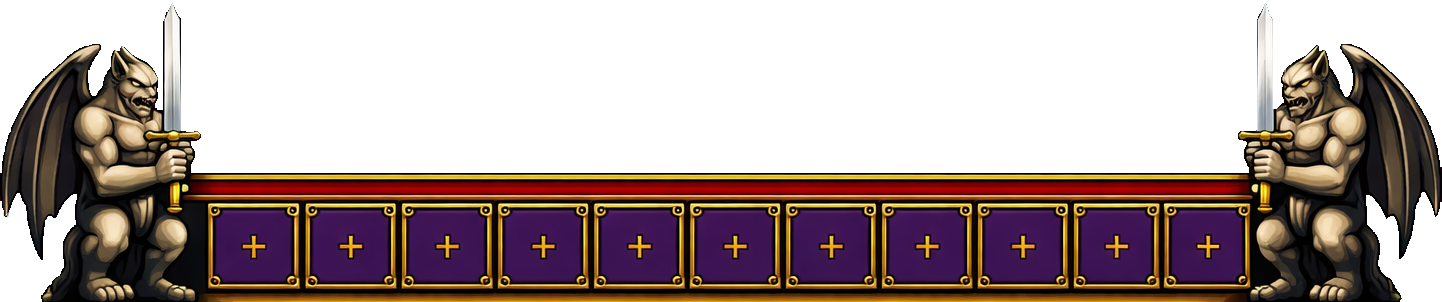
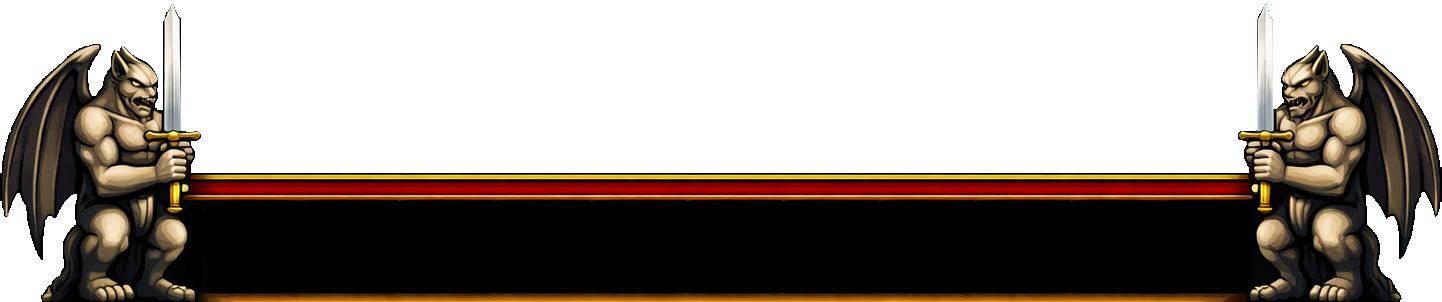
Moved weapon armor panel

Changed region(s): [[0.1248, 0.6556, 0.8738, 0.9834]]

diff --git a/client/src/scenes/game/mod.rs b/client/src/scenes/game/mod.rs
@@ -56,8 +56,8 @@ use crate::{
         hud::skill_bar::SkillBar,
         hud::skill_picker_popup::SkillPickerPopup,
         hud::skills_panel::SkillsPanel,
-        hud::status_panel::StatusPanel,
         hud::talent_panel::TalentPanel,
+        hud::weapon_armor_panel::WeaponArmorPanel,
         style::Padding,
         visuals::rank_progress_line::RankProgressLine,
         visuals::rank_sigil::RankSigil,
@@ -197,10 +197,10 @@ const RANK_SIGIL_Y: i32 = 4;
 
 // ---- Status panel (WV/AV, right of skill bar) ---- //
 
-/// X position of the status panel (8 px to the right of the skill bar's right edge).
-const STATUS_PANEL_X: i32 = TARGET_WIDTH_INT as i32 - 280;
-/// Y position of the status panel (same row as the rank progress line).
-const STATUS_PANEL_Y: i32 = TARGET_HEIGHT_INT as i32 - 37;
+/// X position of the weapon/armor panel (8 px to the right of the skill bar's right edge).
+const WEAPON_ARMOR_PANEL_X: i32 = TARGET_WIDTH_INT as i32 - 368;
+/// Y position of the weapon/armor panel (same row as the rank progress line).
+const WEAPON_ARMOR_PANEL_Y: i32 = TARGET_HEIGHT_INT as i32 - 33;
 
 /// X position of the vitality chevrons (horizontal centre of the player sprite).
 const VITALITY_BARS_X: i32 = TARGET_WIDTH_INT as i32 / 2;
@@ -217,7 +217,7 @@ const VITALITY_BARS_Y: i32 = TARGET_HEIGHT_INT as i32 - 42;
 /// scroll positions, pending stat raises, minimap pixel buffer, and escape
 /// menu state. Created fresh each time the player enters the game world.
 pub struct GameScene {
-    pub(super) status_panel: StatusPanel,
+    pub(super) weapon_armor_panel: WeaponArmorPanel,
     pub(super) rank_sigil: RankSigil,
     pub(super) chat_box: ChatBox,
     pub(super) hud_buttons: HudButtonBar,
@@ -334,7 +334,11 @@ impl GameScene {
         keyboard.set_position(keyboard.bounds().x, keyboard_y);
 
         Self {
-            status_panel: StatusPanel::new(STATUS_PANEL_X, STATUS_PANEL_Y, HUD_PANEL_BG),
+            weapon_armor_panel: WeaponArmorPanel::new(
+                WEAPON_ARMOR_PANEL_X,
+                WEAPON_ARMOR_PANEL_Y,
+                HUD_PANEL_BG,
+            ),
             rank_sigil: RankSigil::new(RANK_SIGIL_X, RANK_SIGIL_Y, HUD_PANEL_BG),
             chat_box: ChatBox::new(
                 Bounds::new(CHATBOX_X, CHATBOX_Y, CHATBOX_W, CHATBOX_H),
@@ -715,7 +719,7 @@ impl GameScene {
         if self.spell_effect_icons.contains_point(mx, my) {
             return true;
         }
-        if self.status_panel.bounds().contains_point(mx, my) {
+        if self.weapon_armor_panel.bounds().contains_point(mx, my) {
             return true;
         }
         if self.hud_buttons.bounds().contains_point(mx, my) {
@@ -1322,7 +1326,7 @@ impl Scene for GameScene {
     /// `Some(SceneType)` if a disconnect or exit was signalled, otherwise `None`.
     fn update(&mut self, app_state: &mut AppState<'_>, dt: Duration) -> Option<SceneType> {
         self.chat_box.update(dt);
-        self.status_panel.update(dt);
+        self.weapon_armor_panel.update(dt);
         self.skills_panel.update(dt);
         self.inventory_panel.update(dt);
         self.settings_panel.update(dt);
@@ -1595,7 +1599,7 @@ impl Scene for GameScene {
                 let ci = ps.character_info();
                 let rank_index = ranks::points2rank(ci.points_tot as u32);
                 self.rank_sigil.sync(rank_index as usize);
-                self.status_panel.sync(ci.weapon, ci.armor);
+                self.weapon_armor_panel.sync(ci.weapon, ci.armor);
                 self.rank_progress_line.sync(ci.points_tot as u32);
                 self.mode_button.sync(ci.mode);
                 self.vitality_bars.sync(
@@ -1657,7 +1661,7 @@ impl Scene for GameScene {
             if self.rank_sigil.is_visible() {
                 self.rank_sigil.render(&mut ctx)?;
             }
-            self.status_panel.render(&mut ctx)?;
+            self.weapon_armor_panel.render(&mut ctx)?;
             self.vitality_bars.render(&mut ctx)?;
             self.spell_effect_icons.render(&mut ctx)?;
         }
@@ -1678,7 +1682,7 @@ impl Scene for GameScene {
             self.minimap_widget.render(&mut ctx)?;
             self.mode_button.render(&mut ctx)?;
             self.skill_bar.render(&mut ctx)?;
-            self.status_panel.render(&mut ctx)?;
+            self.weapon_armor_panel.render(&mut ctx)?;
             self.rank_progress_line.render(&mut ctx)?;
             self.skill_picker.render(&mut ctx)?;
         }

diff --git a/client/src/bin/ui_integration.rs b/client/src/bin/ui_integration.rs
@@ -247,7 +247,8 @@ fn main() -> Result<(), String> {
     let panel_x = HUD_ARC_CENTER_X - HUD_PANEL_W as i32 / 2;
     let panel_y = panel_bottom - HUD_PANEL_H as i32;
 
-    let mut status_panel = client::ui::hud::status_panel::StatusPanel::new(COL2_X, 230, PANEL_BG);
+    let mut status_panel =
+        client::ui::hud::weapon_armor_panel::WeaponArmorPanel::new(COL2_X, 230, PANEL_BG);
 
     let mut skills_panel = SkillsPanel::new(
         Bounds::new(panel_x, panel_y, HUD_PANEL_W, HUD_PANEL_H),
@@ -701,7 +702,7 @@ fn update_all(
     mode_button: &mut ModeButton,
     minimap_widget: &mut MinimapWidget,
     hud_buttons: &mut HudButtonBar,
-    status_panel: &mut client::ui::hud::status_panel::StatusPanel,
+    status_panel: &mut client::ui::hud::weapon_armor_panel::WeaponArmorPanel,
     skills_panel: &mut SkillsPanel,
     inventory_panel: &mut InventoryPanel,
     settings_panel: &mut SettingsPanel,

diff --git a/client/src/scenes/game/net_events.rs b/client/src/scenes/game/net_events.rs
@@ -623,7 +623,9 @@ impl GameScene {
         self.spell_effect_icons.handle_event(ui_event);
 
         // --- StatusPanel (WV/AV display, right of skill bar) ---
-        if self.status_panel.handle_event(ui_event) == crate::ui::widget::EventResponse::Consumed {
+        if self.weapon_armor_panel.handle_event(ui_event)
+            == crate::ui::widget::EventResponse::Consumed
+        {
             return UiHandleResult::Consumed;
         }
 

diff --git a/client/src/ui/hud/mod.rs b/client/src/ui/hud/mod.rs
@@ -10,5 +10,5 @@ pub mod shop_panel;
 pub mod skill_bar;
 pub mod skill_picker_popup;
 pub mod skills_panel;
-pub mod status_panel;
 pub mod talent_panel;
+pub mod weapon_armor_panel;

diff --git a/client/src/ui/hud/skill_bar.rs b/client/src/ui/hud/skill_bar.rs
@@ -27,7 +27,7 @@ use crate::ui::widget::{Bounds, EventResponse, MouseButton, UiEvent, Widget, Wid
 // ---------------------------------------------------------------------------
 
 /// Side length of each square cell in pixels.
-const CELL: i32 = 29;
+const CELL: i32 = 30;
 
 /// Number of cells in the top (skill-bind) row.
 pub const TOP_CELLS: usize = 10;